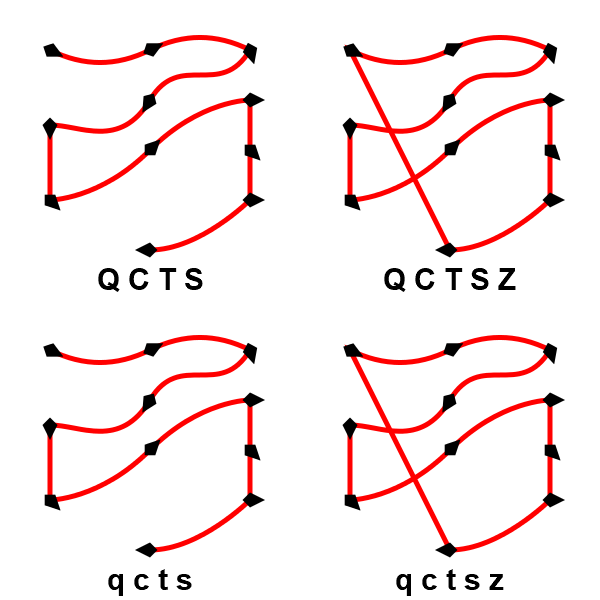
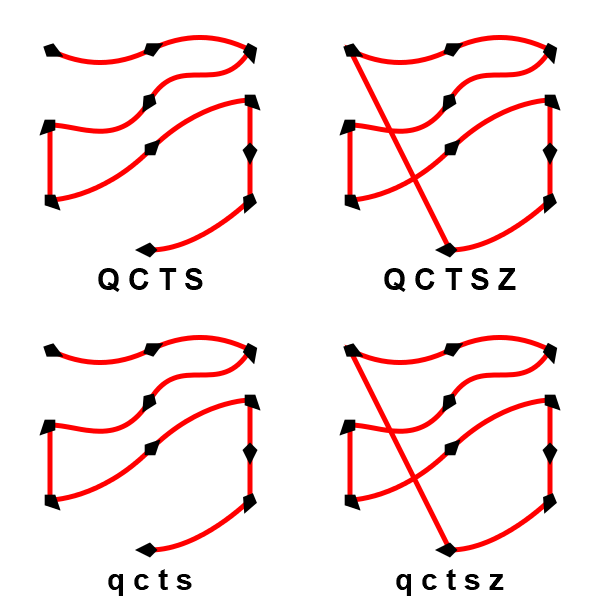
Update testcases

diff --git a/sahara/node_vertices_tests/README.md b/sahara/node_vertices_tests/README.md
@@ -11,8 +11,8 @@ The rightmost images are visualisations of the `node.vertices` array, which is i
 ## Changes in AgC/master
 * [x] General node.vertices angle fixes
 * [x] Determining marker angles from vertex angles
-* [ ] Elliptic curve angles
-* [ ] Degenerate curve angles
+* [x] Elliptic curve angles
+* [x] Degenerate curve angles
 * [ ] Closepath angles
 * [ ] Start/end vs. mid markers
 
